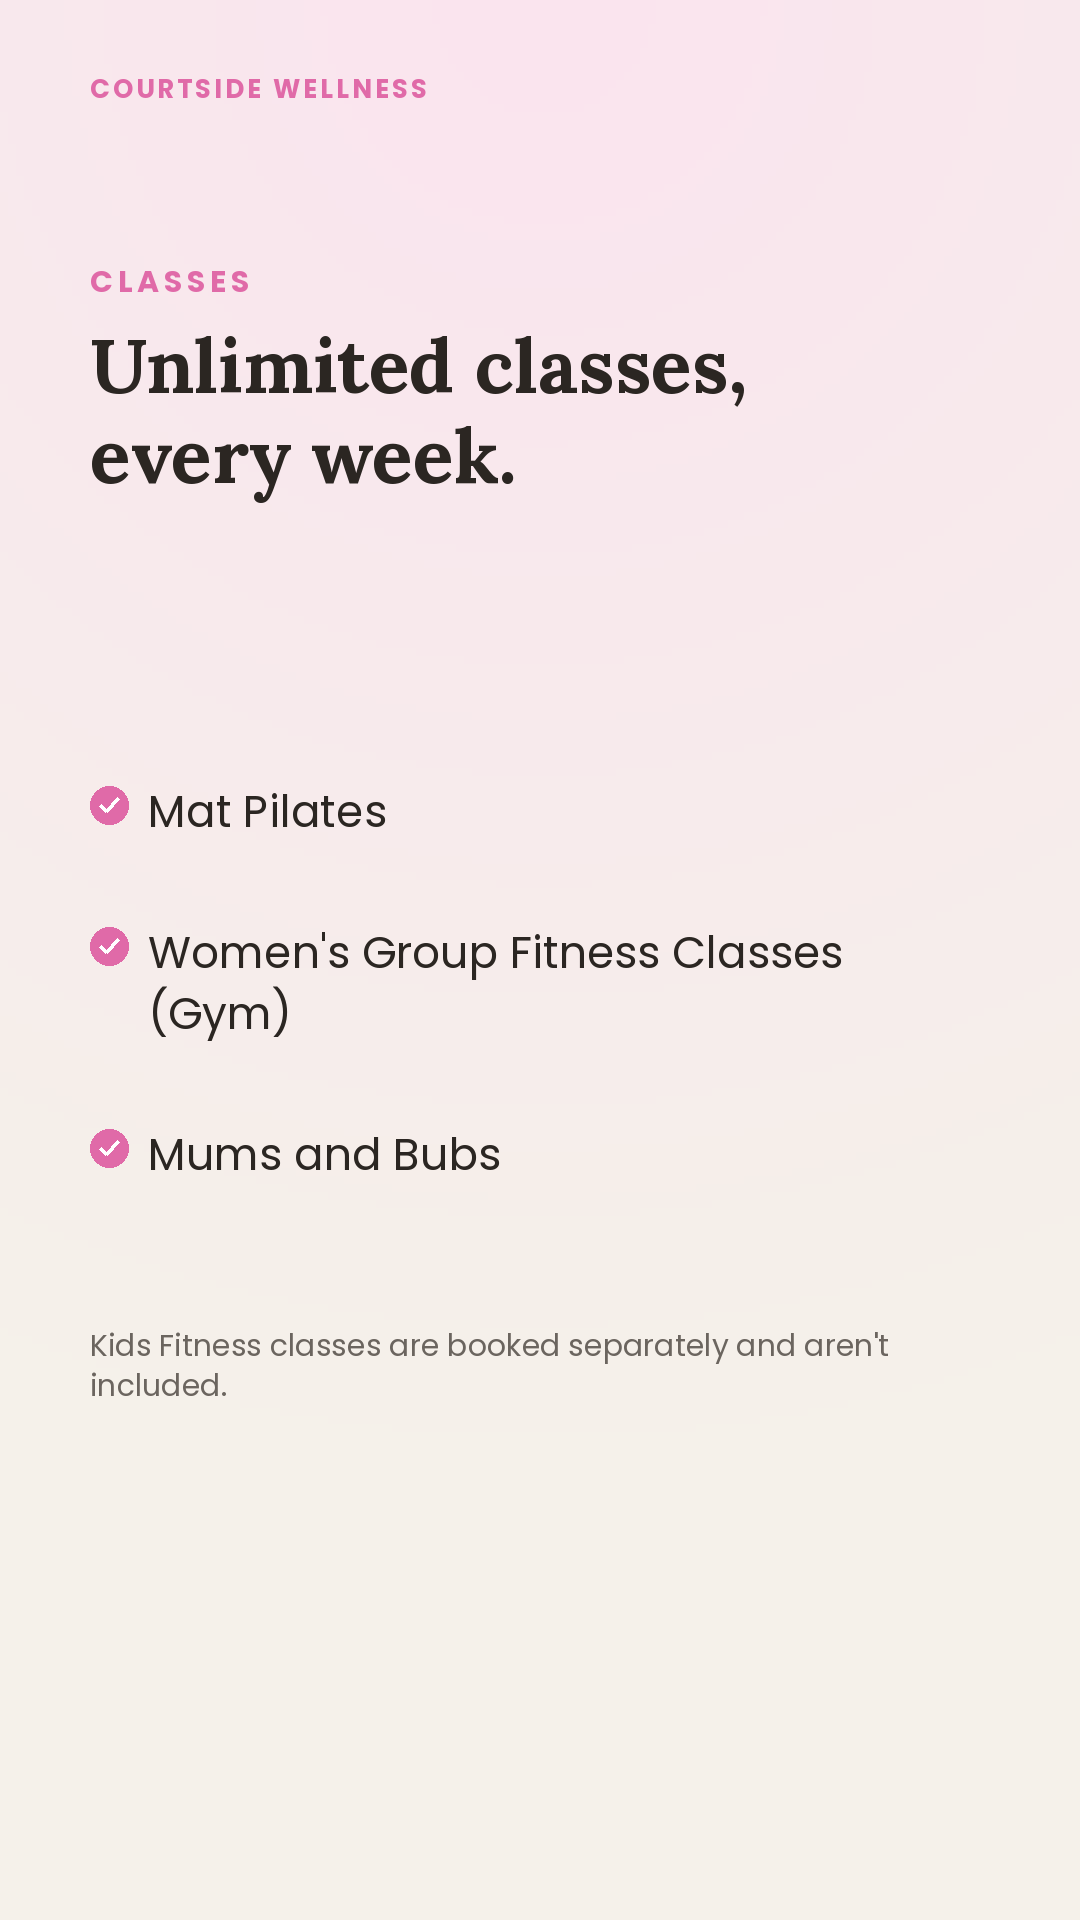
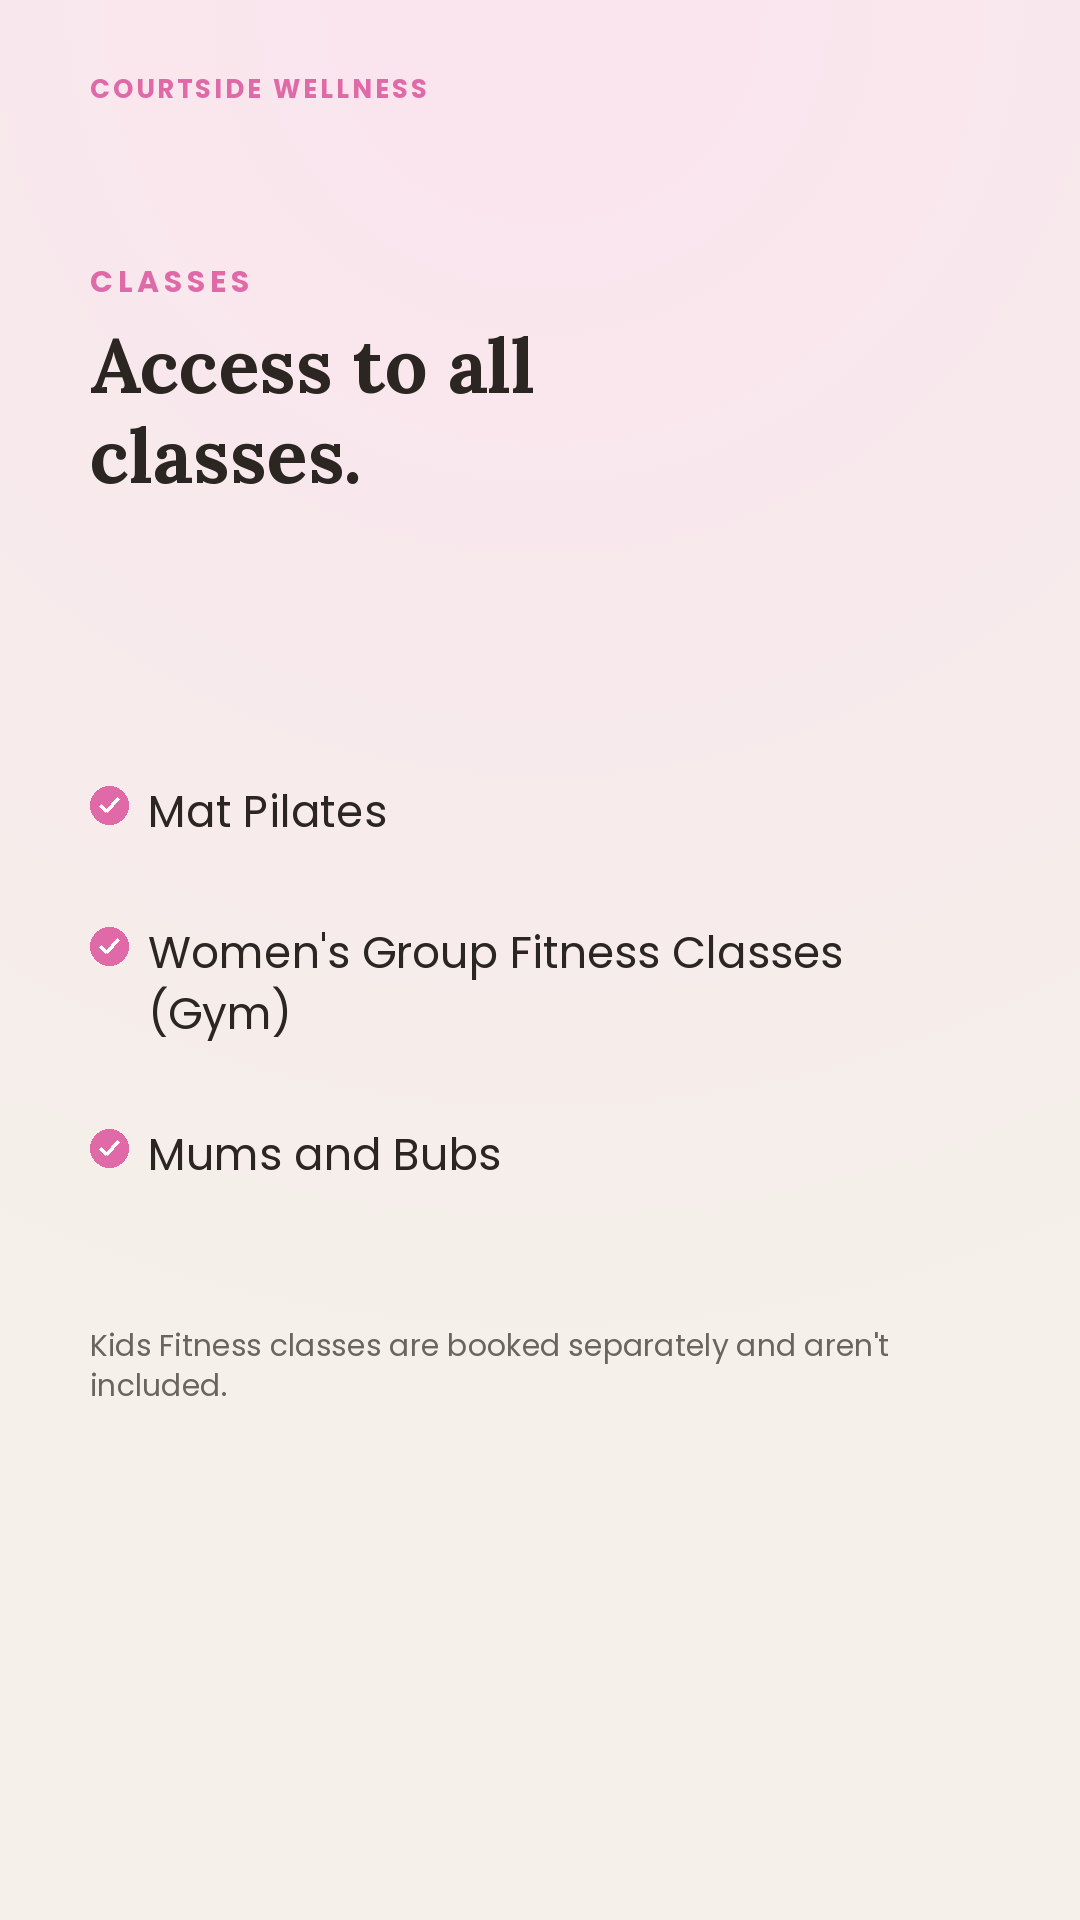
Remove Mums and Bubs (bub welcome at Pilates), Group Fitness coming soon

Changed region(s): [[0.0917, 0.1562, 0.6722, 0.2812]]

diff --git a/classes.html b/classes.html
@@ -4,7 +4,7 @@
 <meta charset="UTF-8">
 <meta name="viewport" content="width=device-width, initial-scale=1.0">
 <title>Classes · Courtside Wellness</title>
-<meta name="description" content="Women's classes at Courtside Wellness, Minto NSW: Mat Pilates, Mums and Bubs, and Women's Group Fitness Classes (Gym), all $20, launching Monday 12 October 2026.">
+<meta name="description" content="Women's classes at Courtside Wellness, Minto NSW: Mat Pilates (bub welcome) at $20 a class, with Women's Group Fitness Classes (Gym) coming soon.">
 <link rel="preconnect" href="https://fonts.googleapis.com">
 <link href="https://fonts.googleapis.com/css2?family=Playfair+Display:wght@700&family=Poppins:wght@400;500;600;700&display=swap" rel="stylesheet">
 <link rel="icon" type="image/png" href="images/favicon.png">
@@ -40,7 +40,7 @@
 <section class="hero" style="padding-bottom: 40px;">
   <span class="eyebrow">Classes</span>
   <h1>Our Program</h1>
-  <p class="lead">Three private, women-only classes inside Padel Spot Minto, each $20, launching Monday 12 October 2026.</p>
+  <p class="lead">Private, women-only classes inside Padel Spot Minto, $20 each. Mat Pilates is open for booking, with Group Fitness coming soon.</p>
 </section>
 
 <section style="padding-top: 40px;">
@@ -49,15 +49,10 @@
       <div class="feature-card">
         <h3>Mat Pilates</h3>
         <p style="color: var(--pink-dark); font-weight: 600; font-size: 0.85rem; margin-bottom: 8px;">$20 &middot; Women's</p>
-        <p>Mat-based Pilates for core strength, posture and control, at your own pace.</p>
+        <p>Mat-based Pilates for core strength, posture and control, at your own pace. Bub welcome in the room.</p>
       </div>
       <div class="feature-card">
-        <h3>Mums and Bubs</h3>
-        <p style="color: var(--pink-dark); font-weight: 600; font-size: 0.85rem; margin-bottom: 8px;">$20 &middot; Women's</p>
-        <p>Bring bub along and skip the babysitter search. A relaxed space to move alongside other mums.</p>
-      </div>
-      <div class="feature-card">
-        <h3>Women's Group Fitness Classes (Gym)</h3>
+        <h3>Women's Group Fitness Classes (Gym) <span style="display:inline-block; background: var(--pink-soft, #FBE4EF); color: var(--pink-dark); font-weight: 600; font-size: 0.75rem; letter-spacing: 0.06em; text-transform: uppercase; padding: 3px 10px; border-radius: 999px; margin-left: 8px; vertical-align: middle;">Coming soon</span></h3>
         <p style="color: var(--pink-dark); font-weight: 600; font-size: 0.85rem; margin-bottom: 8px;">$20 &middot; Women's &middot; Group class</p>
         <p>Guided, full-body strength and conditioning at the gym, trained together as a group.</p>
       </div>
@@ -73,10 +68,11 @@
 
     <h2 style="font-size: 1.4rem;">Mat Pilates</h2>
     <div class="price-panel">
-      <p>Mat-based Pilates focused on core strength, posture and control, at a pace that works whether you're brand new to Pilates or you've been doing it for years. A steady, grounding way to start or reset your week.</p>
+      <p>Mat-based Pilates focused on core strength, posture and control, at a pace that works whether you're brand new to Pilates or you've been doing it for years. A steady, grounding way to start or reset your week. Got a little one? Bub is welcome in the room the whole session.</p>
       <ul>
         <li><strong>40 minutes</strong>: long enough to work, short enough to fit before work or school pickup.</li>
         <li><strong>Up to 30 women</strong>: a group big enough for energy, small enough that the instructor knows your name.</li>
+        <li><strong>Bub welcome</strong> in the room.</li>
       </ul>
       <div class="price-tag">
         <div class="amount">$20</div>
@@ -85,21 +81,7 @@
       </div>
     </div>
 
-    <h2 style="font-size: 1.4rem; margin-top: 50px;">Mums and Bubs</h2>
-    <div class="price-panel">
-      <p>Bring your baby along and skip the babysitter search. This class is built so mums can move, stretch and strengthen with bub right there in the room, in a relaxed, welcoming space alongside other mums figuring it out too.</p>
-      <ul>
-        <li><strong>40 minutes</strong>, easy to build into your day.</li>
-        <li><strong>Bub welcome</strong> in the room the whole session.</li>
-      </ul>
-      <div class="price-tag">
-        <div class="amount">$20</div>
-        <div class="unit">per class</div>
-        <a href="booking.html" class="btn btn-primary" style="margin-top: 20px;">Book a Class</a>
-      </div>
-    </div>
-
-    <h2 style="font-size: 1.4rem; margin-top: 50px;">Women's Group Fitness Classes (Gym)</h2>
+    <h2 style="font-size: 1.4rem; margin-top: 50px;">Women's Group Fitness Classes (Gym) <span style="display:inline-block; background: var(--pink-soft, #FBE4EF); color: var(--pink-dark); font-weight: 600; font-size: 0.75rem; letter-spacing: 0.06em; text-transform: uppercase; padding: 3px 10px; border-radius: 999px; margin-left: 8px; vertical-align: middle;">Coming soon</span></h2>
     <div class="price-panel">
       <p>A guided, full-body strength and conditioning session at the gym, trained together as a group. Structured sets, proper form, and real instruction, a proper challenge with company instead of a gym floor full of strangers.</p>
       <ul>
@@ -109,7 +91,7 @@
       <div class="price-tag">
         <div class="amount">$20</div>
         <div class="unit">per class</div>
-        <a href="booking.html" class="btn btn-primary" style="margin-top: 20px;">Book a Class</a>
+        <a href="contact.html" class="btn btn-outline" style="margin-top: 20px;">Ask About It</a>
       </div>
     </div>
 

diff --git a/js/booking.js b/js/booking.js
@@ -15,9 +15,8 @@
 // simplified flow (no class-type screen; selectedClassType is fixed to
 // "pilates"):
 //   Mondays 10:00, Wednesdays 10:30, Thursdays 10:30
-// Mums and Bubs is still a supported class (other pages, membership) but is
-// not offered in the booking flow for now; its schedule below is kept so it
-// can be switched back on.
+// Mums and Bubs was removed as a separate class: bub is now simply welcome
+// in the room at Mat Pilates.
 //
 // Kids Fitness isn't in here — it launches as a school-holiday pilot rather
 // than a regular weekly class, so it isn't part of the normal date-driven
@@ -42,17 +41,6 @@ const CLASS_TYPES = {
       4: ["10:30"]   // Thursday
     },
     // Live Stripe Payment Link: "Standard Class - Courtside Wellness" ($20).
-    stripeLink: "https://buy.stripe.com/9B6aEZcoVcc6bvK7673ZK06"
-  },
-  mumsbubs: {
-    label: "Mums and Bubs",
-    price: 20,
-    capacity: 30,
-    schedule: {
-      1: ["10:30"], // Monday
-      4: ["11:00"]  // Thursday
-    },
-    // Reuses the $20 Standard Class Stripe link (same price point).
     stripeLink: "https://buy.stripe.com/9B6aEZcoVcc6bvK7673ZK06"
   },
   // Free members-only Padel session, booked from padel.html (not part of the
@@ -100,7 +88,7 @@ let hasActiveMembership = false; // true if the logged-in user has an active $40
 // Membership covers unlimited bookings on all three women's classes. Kids
 // Fitness isn't part of this list since it's a separate school-holiday
 // pilot, not a regular bookable class yet.
-const MEMBERSHIP_CLASS_TYPES = ["pilates", "mumsbubs", "strength"];
+const MEMBERSHIP_CLASS_TYPES = ["pilates", "strength"];
 
 // Class credits (from a 5- or 10-Class Pack) are generic — usable on any
 // class type, regardless of which pack they came from.

diff --git a/index.html b/index.html
@@ -91,18 +91,14 @@
   <div class="section-inner reveal">
     <span class="section-label">What's on</span>
     <h2>Our Program</h2>
-    <p class="lead-text">Three women's classes, $20 each, launching Monday 12 October 2026.</p>
+    <p class="lead-text">Women's classes, $20 each. Mat Pilates is open for booking, with Group Fitness coming soon.</p>
     <div class="card-grid">
       <div class="feature-card">
         <h3>Mat Pilates</h3>
-        <p>$20 per class, up to 30 women.</p>
+        <p>$20 per class, up to 30 women. Bub welcome in the room.</p>
       </div>
       <div class="feature-card">
-        <h3>Mums and Bubs</h3>
-        <p>$20 per class. Bring bub along, no childcare needed.</p>
-      </div>
-      <div class="feature-card">
-        <h3>Women's Group Fitness Classes (Gym)</h3>
+        <h3>Women's Group Fitness Classes (Gym) <span style="display:inline-block; background: var(--pink-soft, #FBE4EF); color: var(--pink-dark); font-weight: 600; font-size: 0.75rem; letter-spacing: 0.06em; text-transform: uppercase; padding: 3px 10px; border-radius: 999px; margin-left: 8px; vertical-align: middle;">Coming soon</span></h3>
         <p>$20 per class. Guided, full-body strength and conditioning, as a group.</p>
       </div>
     </div>

diff --git a/contact.html b/contact.html
@@ -59,8 +59,7 @@
           <h3>Our Classes</h3>
           <table class="hours-table">
             <tr><td>Mat Pilates</td><td>$20</td></tr>
-            <tr><td>Mums and Bubs</td><td>$20</td></tr>
-            <tr><td>Women's Group Fitness Classes (Gym)</td><td>$20</td></tr>
+            <tr><td>Women's Group Fitness Classes (Gym)</td><td>$20 (coming soon)</td></tr>
           </table>
           <p style="font-size: 0.85rem; color: var(--ink-soft); margin-top: 8px;">Launching Monday 12 October 2026, full timetable to be confirmed. Kids Fitness launches separately during the school holidays, ages 3+. See <a href="classes.html" style="text-decoration: underline;">Classes</a> for full details.</p>
         </div>

diff --git a/membership.html b/membership.html
@@ -70,7 +70,7 @@
       <div class="card-grid" style="margin-top: 16px;">
         <div class="feature-card">
           <h3>Unlimited Classes</h3>
-          <p>Unlimited Mat Pilates, Mums and Bubs, and Women's Group Fitness Classes (Gym) bookings, no per-class fee, no credits to track. (Kids Fitness stays pay-per-class at $15 once it launches.)</p>
+          <p>Access to Mat Pilates and, once it launches, Women's Group Fitness Classes (Gym), bookings, no per-class fee, no credits to track. (Kids Fitness stays pay-per-class at $15 once it launches.)</p>
         </div>
         <div class="feature-card">
           <h3>Padel Spot Minto Access</h3>

diff --git a/packages.html b/packages.html
@@ -40,7 +40,7 @@
 <section class="hero" style="padding-bottom: 20px;">
   <span class="eyebrow">Packages</span>
   <h1>Class Packages</h1>
-  <p class="lead">Buy in bulk and save 20%. Credits work on any women's class: Mat Pilates, Mums and Bubs, or Women's Group Fitness Classes (Gym).</p>
+  <p class="lead">Buy in bulk and save 20%. Credits work on any women's class: Mat Pilates, or Women's Group Fitness Classes (Gym) once it launches.</p>
 </section>
 
 <section style="padding-top: 20px;">
